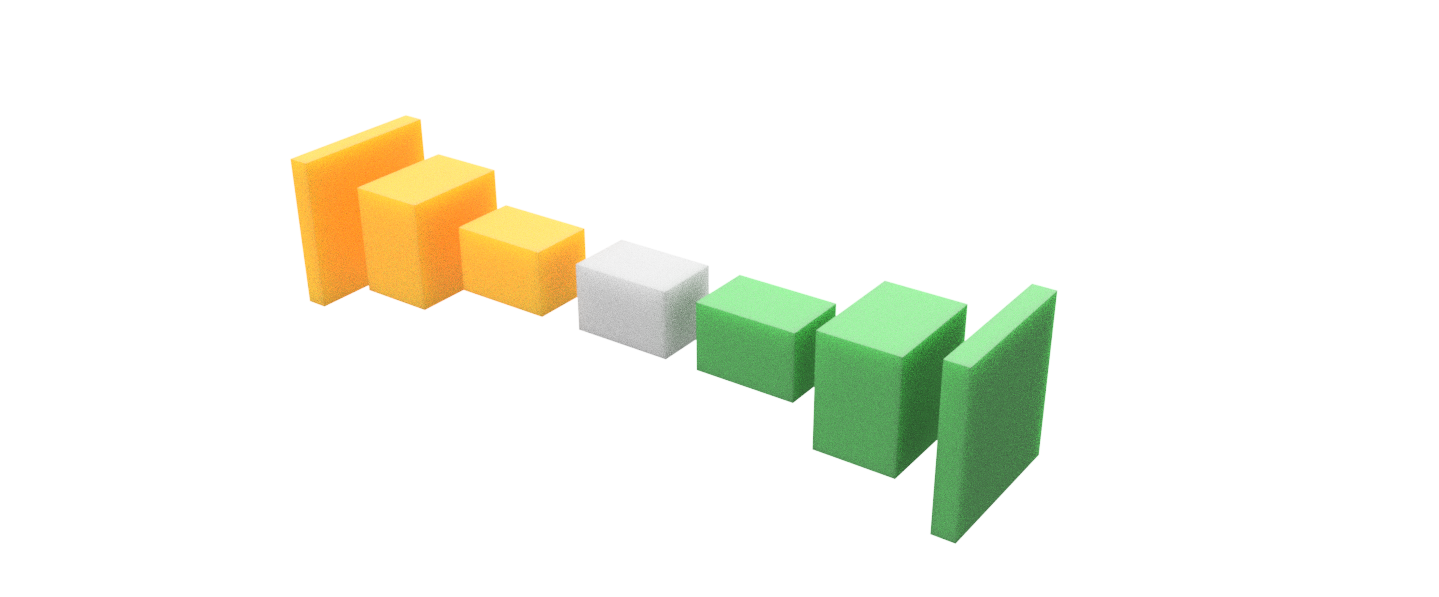
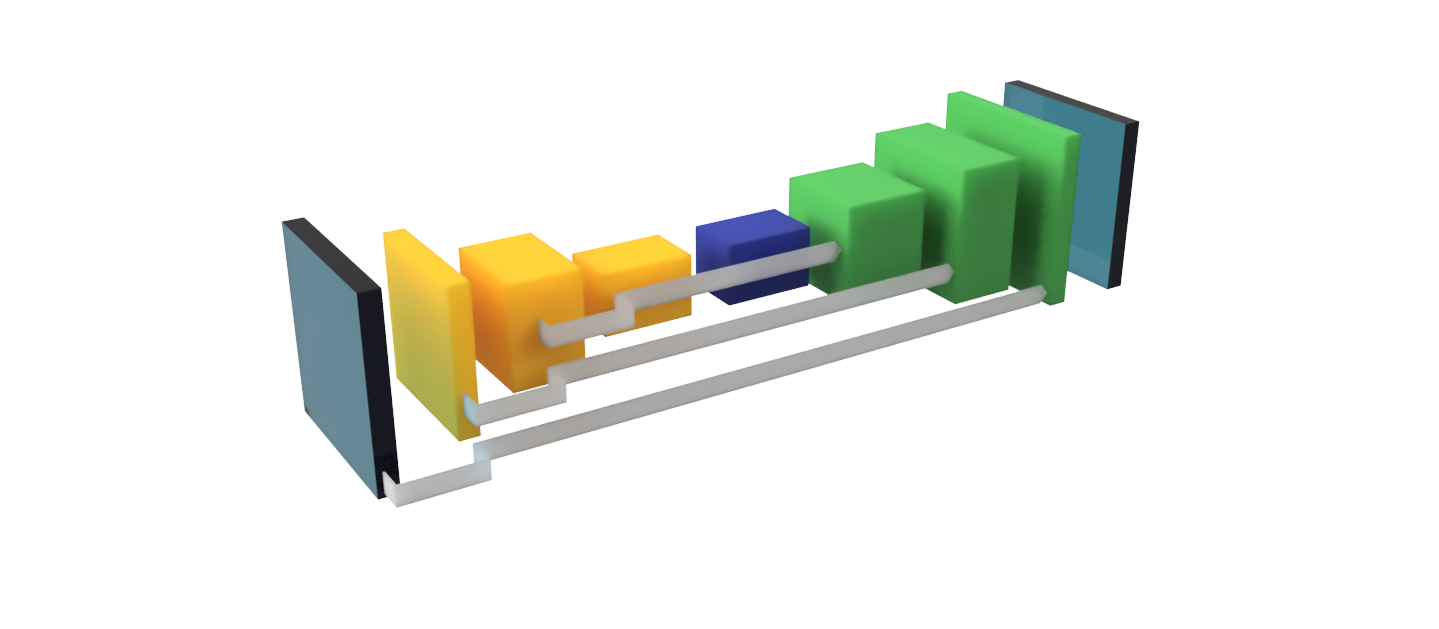
fcn structure finished

Changed region(s): [[0.1835, 0.1206, 0.795, 0.9045]]

diff --git a/Writeup.md b/Writeup.md
@@ -45,7 +45,9 @@ It is defined as function `BilinearUpSampling2D()` in Keras.
 
 ## 3. Architecture of FCN  
 The previous section talks about the main components of a FCN one by one. This section will discuss how to put the components together in a special arrangement which will act as a fully-convolution neural network.  
-![Convolutional Layer](/report/imgs/fcn.png "Fig. 1 Convolutional Layer[1]")  
+![Convolutional Layer](/report/imgs/fcn.png "Fig. 2 Overall Architecture of FCN")  
+Fig. 2 Overall Architecture of FCN  
+
 ### 3.1 Structure of Encoder  
 
 ### 3.2 Structure of Decoder  
